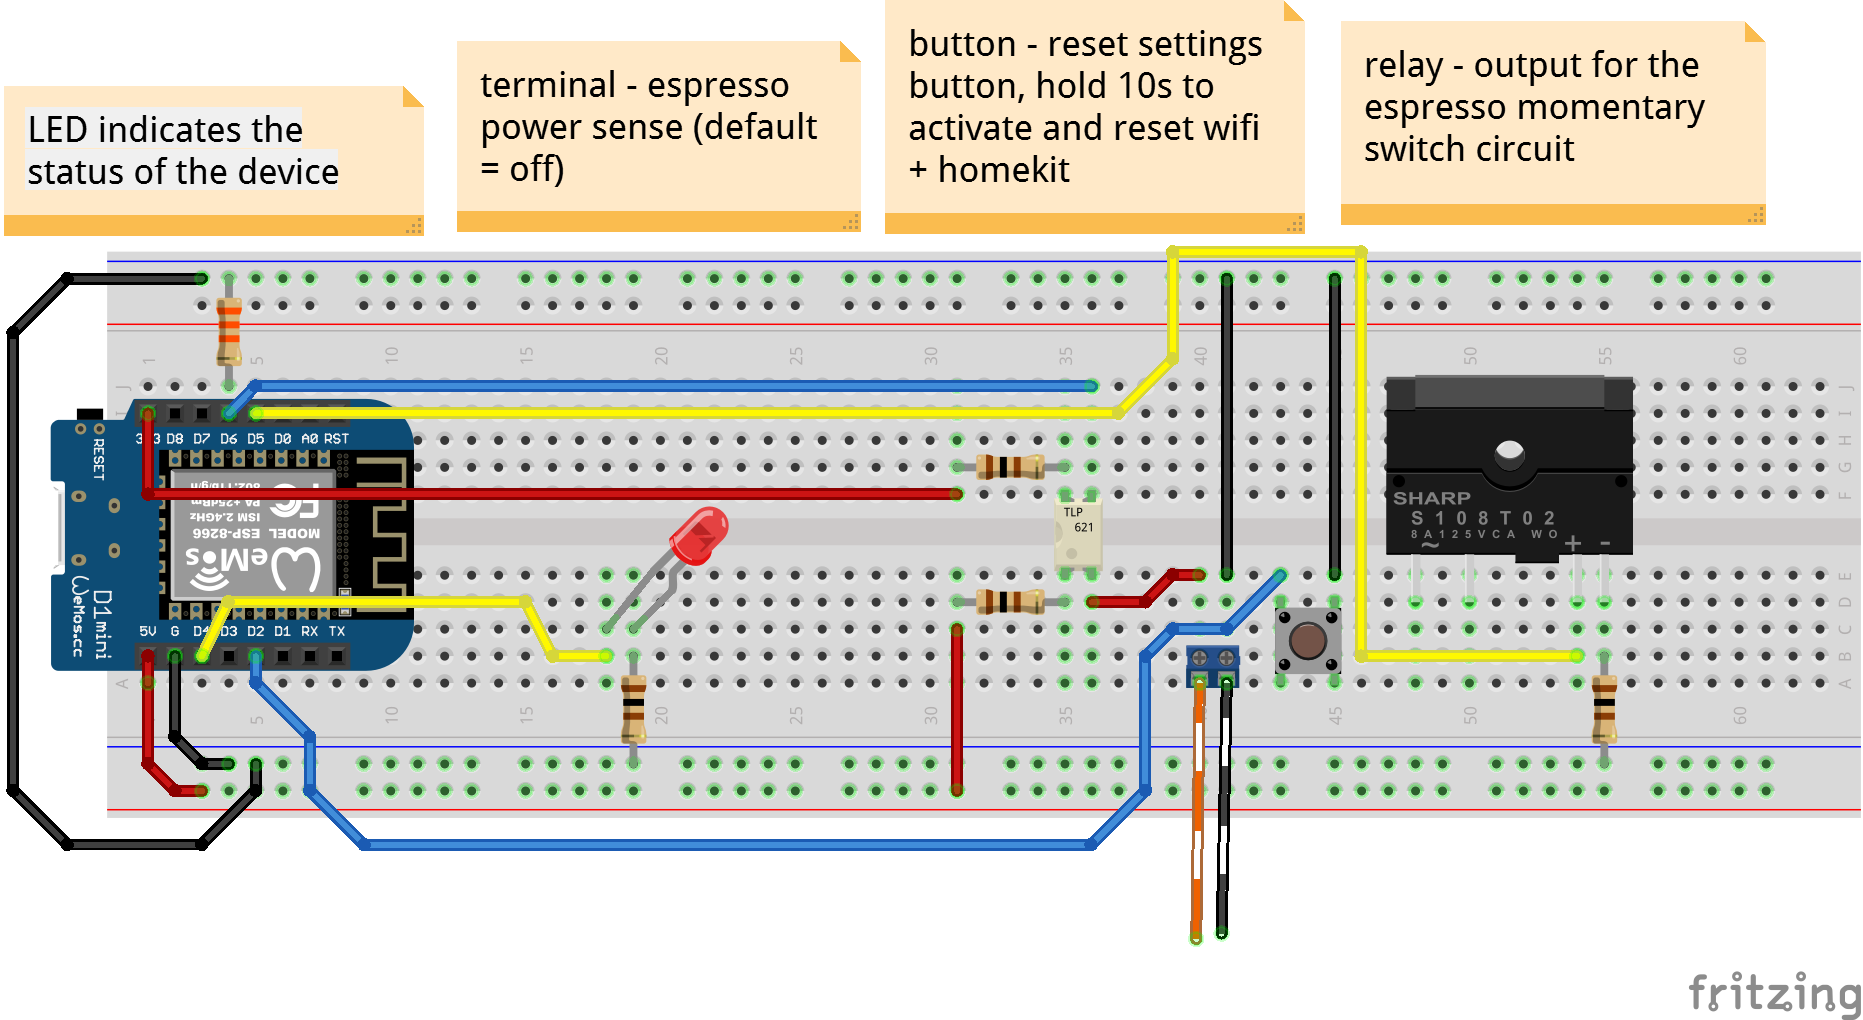
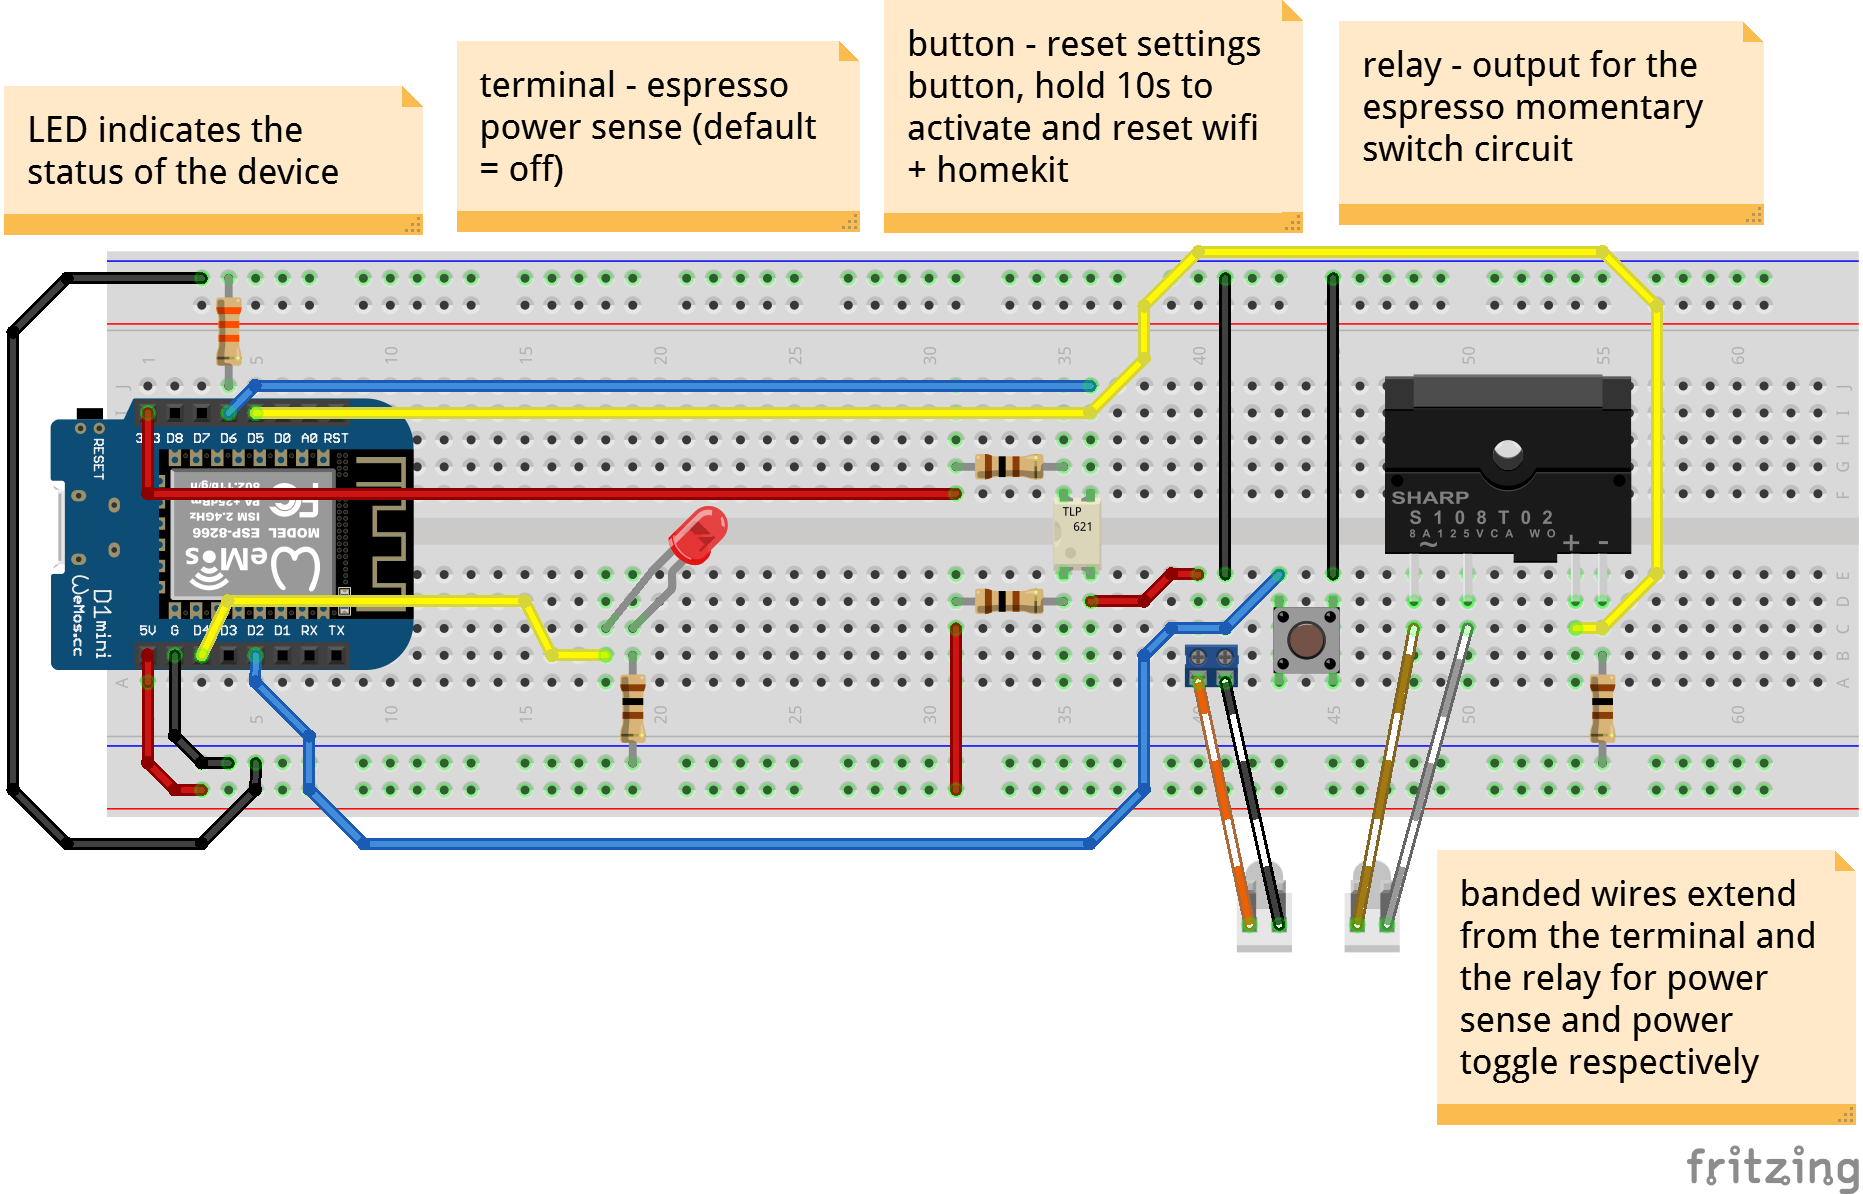
updated schematics and the readme file with the schematics

diff --git a/README.md b/README.md
@@ -1,5 +1,7 @@
 # espresso-controller
-Homekit enabled Rancilio Espresso Controller
+Homekit enabled Rancilio Espresso Controller for Rancilio Silvia v5 Espresso Machine
+
+![rancilio silvia](https://github.com/stellarshenson/espresso-controller/blob/master/rancilio-silvia.jpeg)
 
 this project was possible thanks to the freeRTOS and esp-open-sdk
 Also thanks to folowing other projects:
@@ -7,7 +9,7 @@ Also thanks to folowing other projects:
 * [maximkulkin/esp-wifi-config](https://github.com/maximkulkin/esp-wifi-config)
 * [ravensystem/esp-adv-button](https://github.com/RavenSystem/esp-adv-button.git)
 
-Module specifically designed to control tunring on-and-off Rancilio Silvia v5 Espresso Machine.
+This module is specifically designed to control tunring on-and-off Rancilio Silvia v5 Espresso Machine.
 Rancilio Silvia has only a momentary switch that while toggled, powers the machine on (when previously off) and off (when previously on).
 Additionally Rancilio Silvia uses an internal timer that turns the machine off after 30min
 
